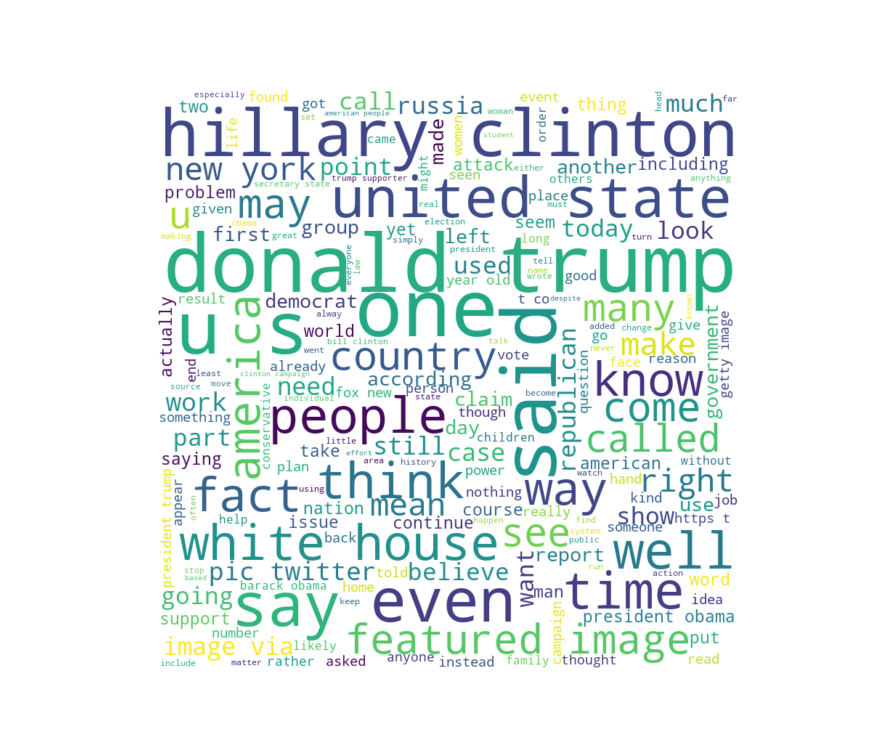
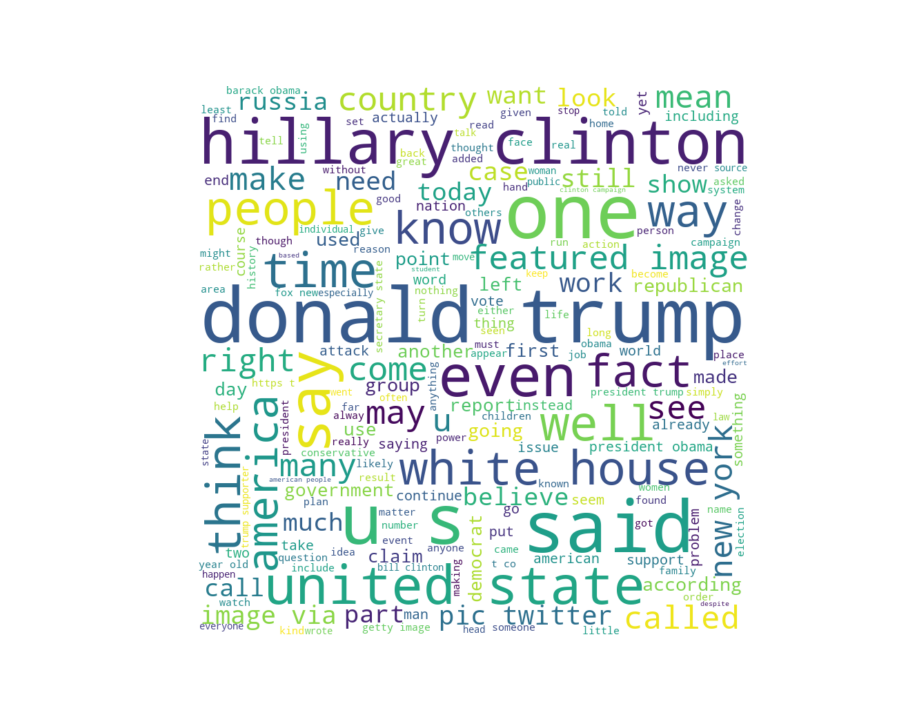
delete least finding feature as it was not helpful data.

Changed region(s): [[0.1854, 0.1229, 0.865, 0.8911]]

diff --git a/trueCloud.py b/trueCloud.py
@@ -1,3 +1,4 @@
+import os
 import pandas as pd
 import nltk
 from nltk.corpus import stopwords
@@ -13,13 +14,12 @@ df = pd.read_csv('DataSet_Misinfo_TRUE.csv')
 
 # Download stopwords and punkt tokenizer from NLTK
 nltk.download('stopwords')  # Common words without meaning
-nltk.download('averaged_perceptron_tagger')  # part of speech tag
-nltk.download('punkt')  # punctuation tokenizer
+nltk.download('averaged_perceptron_tagger') # part of speech tag
+nltk.download('punkt') # punctuation tokenizer
 
 # Define stopwords and punctuation to remove from the text
 stop_words = set(stopwords.words('english'))
 punct = set(punctuation)
-
 
 # Function to preprocess the text
 def preprocess_text(text):
@@ -34,7 +34,6 @@ def preprocess_text(text):
         # Return an empty string for missing values
         return ''
 
-
 # Apply the preprocessing function to the text column
 df['text'] = df['text'].apply(preprocess_text)
 
@@ -48,23 +47,22 @@ df['sentiment'] = df['text'].apply(lambda x: TextBlob(x).sentiment.polarity)
 nltk.download('maxent_ne_chunker')
 nltk.download('words')
 
-
 def get_entities(text):
     chunks = ne_chunk(pos_tag(word_tokenize(text)))
     entities = []
     for chunk in chunks:
         if hasattr(chunk, 'label'):
             entities.append(' '.join(c[0] for c in chunk))
-        return entities
-
+    return entities
 
 df['entities'] = df['text'].apply(get_entities)
 
 # Generate word cloud
 text = ' '.join(df['text'])
-wordcloud = WordCloud(width=800, height=800, background_color='white').generate(text)
+wordcloud = WordCloud(width=800, height=800, background_color='white')
+wordcloud.generate(text)
 
-# Get the 50 most frequent words and their frequencies
+# Get the 100 most frequent words and their frequencies
 word_freq = sorted(wordcloud.process_text(text).items(), key=lambda x: x[1], reverse=True)[:100]
 
 # Create a dictionary to store the frequency total and number of article for each word
@@ -86,44 +84,20 @@ df_result = pd.merge(df_freq, df_article, on='word')
 df_result['rank'] = df_result['freq'].rank(ascending=False)
 
 # Create a CSV file with the data
-df_result.to_csv('trueData.csv', index=False)
+os.makedirs('result', exist_ok=True)
+most_freq_file = os.path.join('result', 'trueData_Most.csv')
+
+df_result.to_csv(most_freq_file, index=False)
 
 # Print the results
-print('50 most frequent words in the text:\n')
-print(df_result[['rank', 'word', 'freq', 'article_count']].head(50))
+print('100 most frequent words in the text:\n')
+print(df_result[['rank', 'word', 'freq', 'article_count']].head(100))
 
 # Plot the word cloud
 plt.imshow(wordcloud, interpolation='bilinear')
 plt.axis('off')
 plt.show()
 
-# Get the 50 least frequent words and their frequencies
-least_word_freq = sorted(wordcloud.process_text(text).items(), key=lambda x: x[1])[:100]
-
-# Create a dictionary to store the frequency total and number of article for each word
-least_freq_dict = {}
-least_article_dict = {}
-
-for word, freq in least_word_freq:
-    least_freq_dict[word] = freq
-    least_article_dict[word] = len(df[df['text'].str.contains(word)])
-
-# Convert the dictionaries to pandas dataframes
-df_least_freq = pd.DataFrame(list(least_freq_dict.items()), columns=['word', 'freq'])
-df_least_article = pd.DataFrame(list(least_article_dict.items()), columns=['word', 'article_count'])
-
-# Merge the dataframes on the 'word' column
-df_least_result = pd.merge(df_least_freq, df_least_article, on='word')
-
-# Calculate the rank based on the word frequency
-df_least_result['rank'] = df_least_result['freq'].rank()
-
-# Create a CSV file with the data
-with pd.ExcelWriter('trueData.xlsx') as writer:
-    df_result.to_excel(writer, sheet_name='trueData_most', index=False)
-    df_least_result.to_excel(writer, sheet_name='trueData_least', index=False)
-
 # Print the results
-print('\n50 least frequent words in the text:\n')
-print(df_least_freq)
-
+print('100 most frequent words in the text:\n')
+print(df_result[['rank', 'word', 'freq', 'article_count']].head(100))

diff --git a/fakeCloud.py b/fakeCloud.py
@@ -1,3 +1,4 @@
+import os
 import pandas as pd
 import nltk
 from nltk.corpus import stopwords
@@ -61,7 +62,7 @@ text = ' '.join(df['text'])
 wordcloud = WordCloud(width=800, height=800, background_color='white')
 wordcloud.generate(text)
 
-# Get the 50 most frequent words and their frequencies
+# Get the 100 most frequent words and their frequencies
 word_freq = sorted(wordcloud.process_text(text).items(), key=lambda x: x[1], reverse=True)[:100]
 
 # Create a dictionary to store the frequency total and number of article for each word
@@ -83,43 +84,20 @@ df_result = pd.merge(df_freq, df_article, on='word')
 df_result['rank'] = df_result['freq'].rank(ascending=False)
 
 # Create a CSV file with the data
-df_result.to_csv('trueData.csv', index=False)
+os.makedirs('result', exist_ok=True)
+most_freq_file = os.path.join('result', 'fakeData_Most.csv')
+
+df_result.to_csv(most_freq_file, index=False)
 
 # Print the results
-print('50 most frequent words in the text:\n')
-print(df_freq)
+print('100 most frequent words in the text:\n')
+print(df_result[['rank', 'word', 'freq', 'article_count']].head(100))
 
 # Plot the word cloud
 plt.imshow(wordcloud, interpolation='bilinear')
 plt.axis('off')
 plt.show()
 
-# Get the 50 least frequent words and their frequencies
-least_word_freq = sorted(wordcloud.process_text(text).items(), key=lambda x: x[1])[:100]
-
-# Create a dictionary to store the frequency total and number of article for each word
-least_freq_dict = {}
-least_article_dict = {}
-
-for word, freq in least_word_freq:
-    least_freq_dict[word] = freq
-    least_article_dict[word] = len(df[df['text'].str.contains(word)])
-
-# Convert the dictionaries to pandas dataframes
-df_least_freq = pd.DataFrame(list(least_freq_dict.items()), columns=['word', 'freq'])
-df_least_article = pd.DataFrame(list(least_article_dict.items()), columns=['word', 'article_count'])
-
-# Merge the dataframes on the 'word' column
-df_least_result = pd.merge(df_least_freq, df_least_article, on='word')
-
-# Calculate the rank based on the word frequency
-df_least_result['rank'] = df_least_result['freq'].rank()
-
-# Create a CSV file with the data
-with pd.ExcelWriter('trueData.xlsx') as writer:
-    df_result.to_excel(writer, sheet_name='trueData_most', index=False)
-    df_least_result.to_excel(writer, sheet_name='trueData_least', index=False)
-
 # Print the results
-print('\n50 least frequent words in the text:\n')
-print(df_least_freq)
+print('100 most frequent words in the text:\n')
+print(df_result[['rank', 'word', 'freq', 'article_count']].head(100))

diff --git a/README.md b/README.md
@@ -1,6 +1,5 @@
 # Data Analysis Hackathon Project 👩💻
 ## Analyzing Misinformation in News using NLP and Data Visualization
-```Unveiling the Truth: Analyzing Misinformation using NLP and Machine Learning ```
 
 This project was created for the CANIS Data Analysis Hackathon. The task was to create compelling data visualizations that would help others understand the survey results in a meaningful way. The dataset used in this project is available on Kaggle through this [link](https://www.kaggle.com/datasets/stevenpeutz/misinformation-fake-news-text-dataset-79k?resource=download)
 
